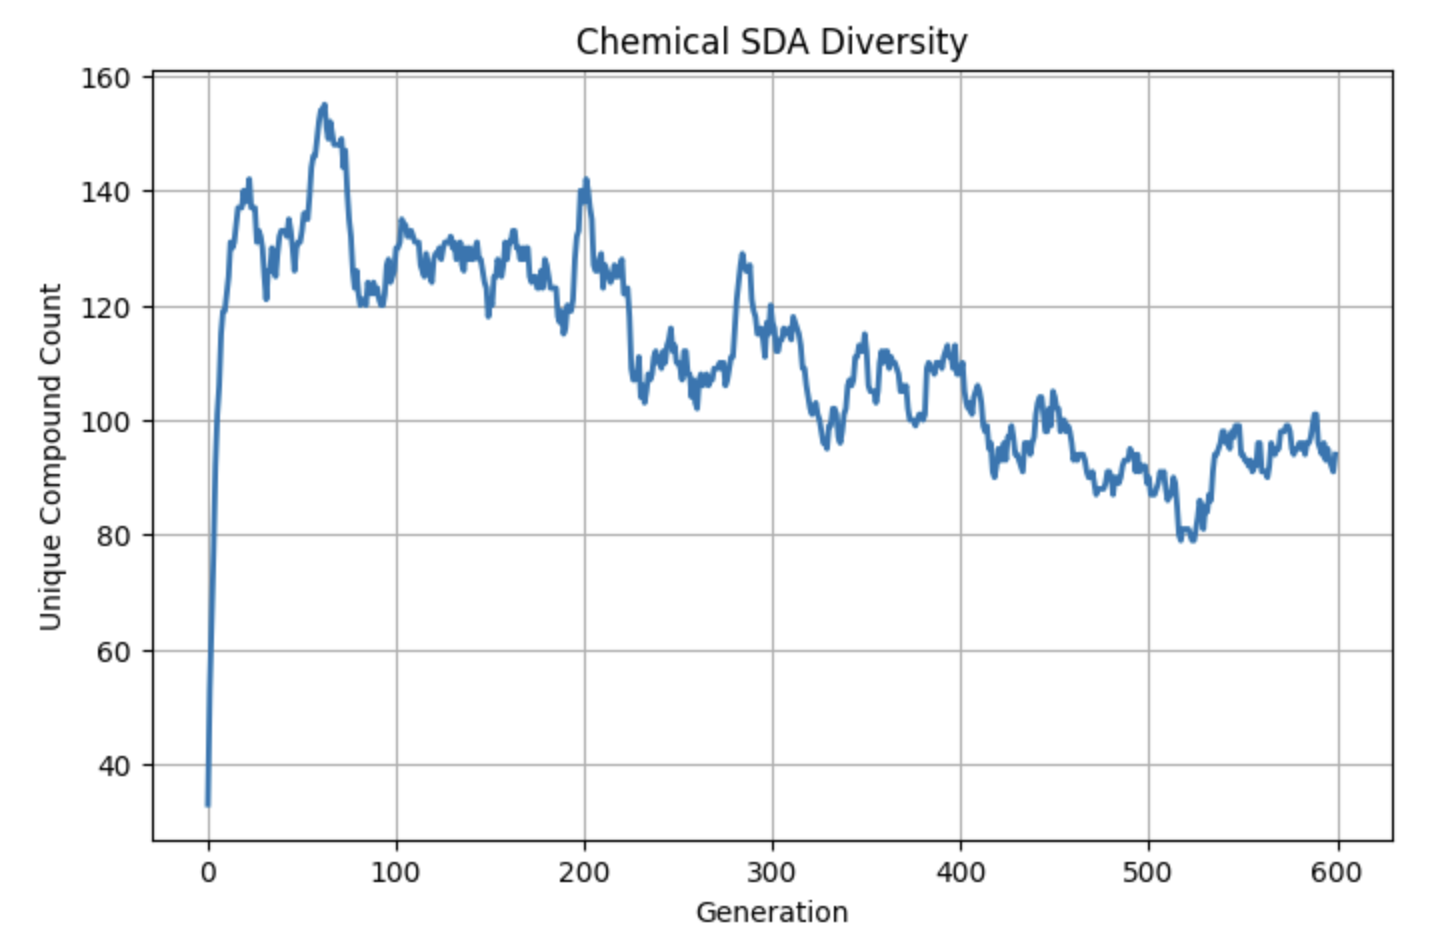
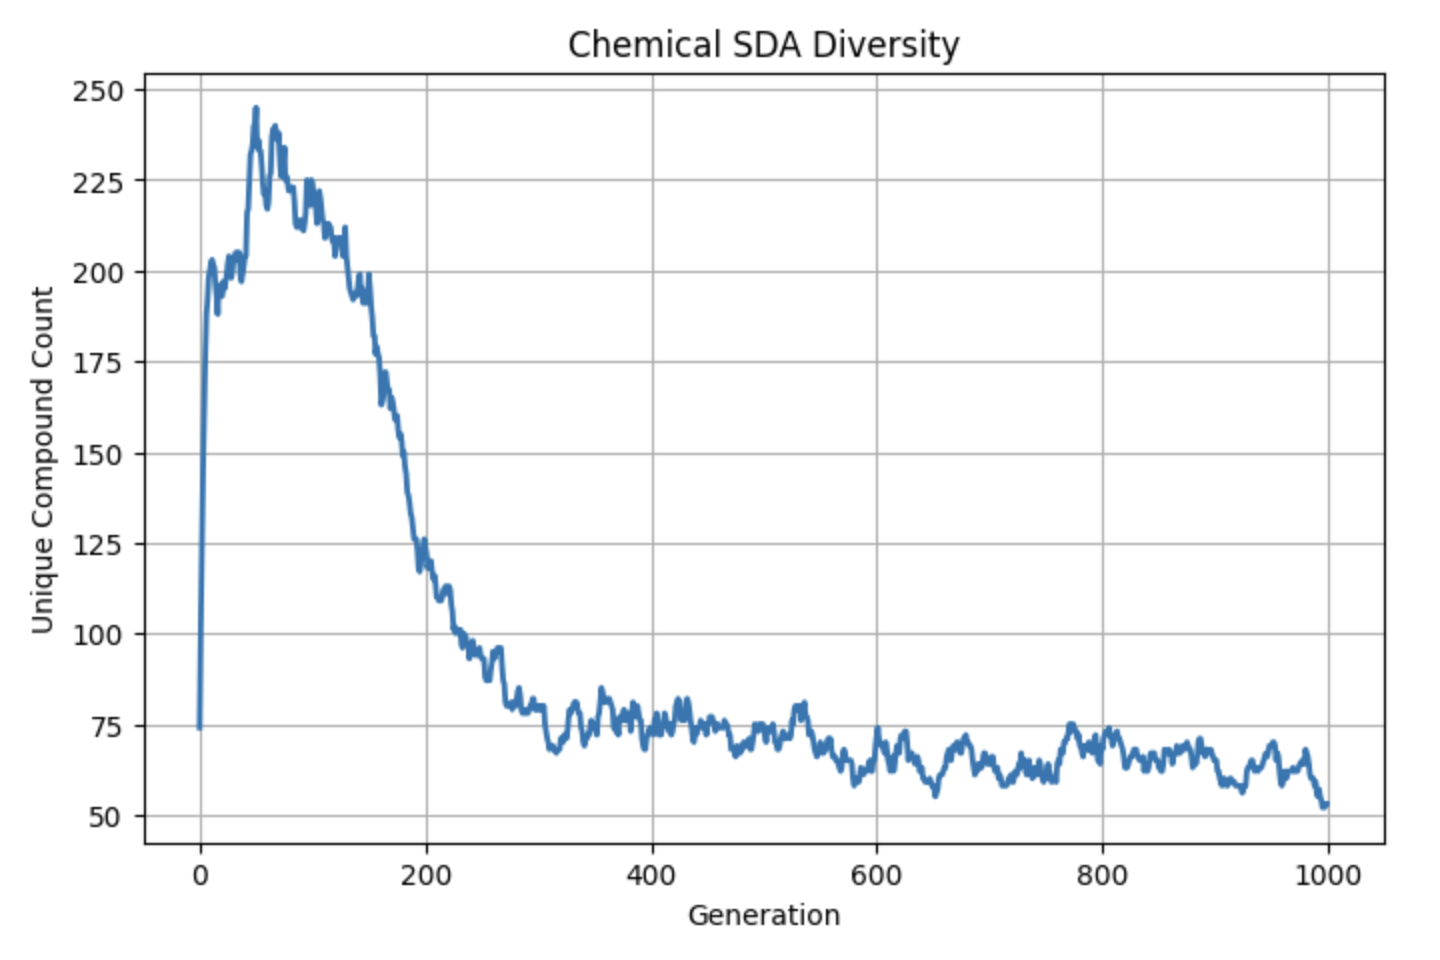
Updates from Overleaf

Changed region(s): [[0.0, 0.0306, 0.9688, 0.9789]]

diff --git a/template.tex b/template.tex
@@ -331,69 +331,87 @@ All other aspects of the algorithm were left unchanged. As in the symbolic case,
 
 \subsection{Results}
 
-We ran simulations for 600 generations with 100 interactions per generation and replenishment rate of three. Several metrics were collected to characterize the evolutionary dynamics of the chemical system.  
+We ran chemical SDA simulations for 1000 generations with 200 interactions per generation and a replenishment rate of five. The results reveal how stability-driven persistence produces skewed population structures, motif-level evolution, and system-wide dynamics that parallel both genetic algorithms (GAs) and ecological systems.  
+
+\begin{figure}[H]
+    \centering
+    \includegraphics[width=0.9\textwidth]{SDA-chem-hist.png}
+    \caption{Histogram of the twelve most frequent compounds at generation 1000, expressed as counts and percentages. One compound accounts for $\sim$54\% of the population, with the next runner-up at $\sim$18\%.}
+    \label{fig:chem-compound-hist}
+\end{figure}
+
+Figure~\ref{fig:chem-compound-hist} shows the distribution of the twelve most abundant compounds at generation 1000. A single acetal-bearing motif (CCCC(O)C(O)C(O)(OC(O)OC)C(N)CCC) dominates over half of the population ($\sim$54\%), while the second most frequent compound---a recursive oligomer in which the polyol core is extended by an additional C(N)CCC branch---accounts for 18\%. The third and fourth most frequent motifs (at 7\% and 6\%, respectively) are close structural relatives: one retains the O–C(=O)–O acetal fragment in a simpler form, while the other incorporates an amide-like NC(O) substitution into the same polyol backbone. Together, these four scaffolds account for over 85\% of the entire pool.
+
+From a GA perspective, this concentration illustrates how roulette-wheel selection emerges naturally from persistence: once a motif survives longer, it contributes disproportionately to the parent pool and thus amplifies its frequency. From a chemical perspective, the winners all share the same polyol–amine backbone, differing only in whether the substituent is acetal-like, recursive, or amide-like. In other words, the system converges on a GA schema (the hydroxylated carbon scaffold with an appended amine) and explores variations within that schema, selecting for those with the greatest stability. The dominance of these few compounds therefore reflects both the GA principle of schema preservation and the chemical principle that stable substituents accumulate over evolutionary time.
+
+\begin{figure}[H]
+    \centering
+    \includegraphics[width=1\textwidth]{SDA-chem-top-evo.png}
+    \caption{Evolution of the two top motifs across 200, 600, and 1000 generations. Early competition between NCN- and acetal-bearing variants gives way to long-term fixation of a single stable scaffold.}
+    \label{fig:chem-top-evo}
+\end{figure}
+
+The trajectories of the two leading motifs are shown in Figure~\ref{fig:chem-top-evo}. At generation 200, the population is split between two scaffolds: an NCN-bearing polyol (17.5\%) and a related acetal-containing variant (14.5\%). Both share the same hydroxylated carbon backbone with an appended amine chain, differing only in the functional group attached to the central scaffold.  
+
+By generation 600, the competition has shifted. A recursive oligomer that elaborates the NCN branch with an additional polyol–amine extension rises to 23.7\% of the pool, while the acetal-bearing variant persists at 19.5\%. This phase illustrates how SDA dynamics preserve a common schema while exploring more complex recombinants.  
+
+By generation 1000, however, the balance tips decisively. The simpler acetal-bearing scaffold dominates nearly half the population (45.1\%), while the more elaborate recursive oligomer declines to 15.0\%. From a GA perspective, this trajectory illustrates schema competition: multiple variants arise from a shared template, but persistence imbalances weight selection toward those with the most favorable stability. From a chemical perspective, the result shows that moderate substituents (acetal-like O–C(=O)–O groups) can outcompete bulkier recursive elaborations, leading to convergence on motifs that maximize both stability and generativity. The outcome thus exemplifies the SDA principle that evolutionary search favors motifs which balance structural richness with long-term persistence.
+
 
 \begin{figure}[H]
     \centering
     \includegraphics[width=0.7\textwidth]{SDA-chem-entropy.png}
-    \caption{Shannon entropy of the chemical SDA population over 600 generations. Entropy rises sharply as diversity expands, then exhibits oscillations reflecting alternating phases of order and disorder as dominant motifs emerge and collapse.}
+    \caption{Shannon entropy of the chemical SDA population over 1000 generations. Entropy rises sharply as diversity expands, then declines steadily as dominant motifs consolidate.}
     \label{fig:chem-entropy}
 \end{figure}
 
-Figure~\ref{fig:chem-entropy} shows the entropy trajectory of the chemical population. Entropy initially rises rapidly as new compounds are discovered, then exhibits a pattern of oscillations rather than monotonic decay. These oscillations are consistent with the boom–bust cycles seen in symbolic SDA runs, in which clusters of stable patterns temporarily dominate before being displaced by alternative structures. The persistence of oscillations indicates that stability-driven selection is sufficient to generate long-lived cycles of order and disorder.  
+Entropy dynamics, shown in Figure~\ref{fig:chem-entropy}, explain this consolidation. Shannon entropy increases rapidly during early exploration as new compounds are discovered, but after peaking near generation 150--200, it declines monotonically. The decline corresponds to the narrowing of the population into a smaller set of persistent motifs, consistent with selection pruning the search space.  
 
 \begin{figure}[H]
     \centering
     \includegraphics[width=0.7\textwidth]{SDA-chem-diversity.png}
-    \caption{Unique compound count over time. Diversity rises steeply in early generations and stabilizes around 100–140 species, with oscillations that closely track entropy fluctuations.}
+    \caption{Unique compound count over time. Diversity peaks early at over 200 unique species, then collapses to $\sim$50 by the end of the run.}
     \label{fig:chem-diversity}
 \end{figure}
 
-The diversity of unique compounds, shown in Figure~\ref{fig:chem-diversity}, follows a similar trajectory. After a rapid increase in early generations, the number of distinct compounds stabilizes at around 100–140, fluctuating in tandem with entropy. This parallelism reinforces the interpretation that entropy oscillations correspond to turnover in chemical diversity, where new motifs periodically displace previously dominant ones.  
+Figure~\ref{fig:chem-diversity} shows that diversity follows the same trajectory. The number of distinct compounds rises steeply in the first 100 generations, reaching over 200 species, but collapses thereafter as stability-driven persistence favors only a subset of motifs. By generation 1000, roughly 50 species remain, with the majority of the population concentrated in the top two scaffolds.  
 
 \begin{figure}[H]
     \centering
     \includegraphics[width=0.7\textwidth]{SDA-chem-novel.png}
-    \caption{Fraction of novel compounds (not in the initial fragment pool) over time. By generation 600, approximately 75\% of the population consists of novel compounds, demonstrating continuous innovation through recombination and mutation.}
+    \caption{Fraction of novel compounds (not in the initial fragment pool) over time. Novelty rapidly overtakes the base pool, stabilizing above 80\% of the population.}
     \label{fig:chem-novel}
 \end{figure}
 
-Figure~\ref{fig:chem-novel} quantifies the share of novel compounds relative to the base fragment pool. The fraction of novel structures rises steadily and plateaus near 75\%, showing that recombination and mutation efficiently explore new regions of chemical space. The persistence of this fraction demonstrates that novelty is not transient but sustained across generations, as stable new motifs accumulate and contribute to ongoing evolutionary dynamics.  
+Novelty relative to the base fragment set is quantified in Figure~\ref{fig:chem-novel}. The fraction of novel compounds rises steeply and surpasses 80\% by generation 200, remaining stable thereafter. This indicates that evolutionary dynamics are driven by novel recombinations rather than simple recycling of the initial pool. Novelty is thus not transient but sustained, consistent with SDA’s prediction of open-ended exploration.  
 
 \begin{figure}[H]
     \centering
     \includegraphics[width=0.7\textwidth]{SDA-chem-rank.png}
-    \caption{Rank–abundance distribution of compounds in the final population (log–log scale). The heavy-tailed form, with a few highly abundant compounds and many rare ones, resembles ecological species-abundance distributions.}
+    \caption{Rank–abundance distribution of compounds in the final population (log–log scale). A heavy-tailed distribution emerges, with a few highly abundant motifs and many rare species.}
     \label{fig:chem-rank}
 \end{figure}
 
-The rank–abundance distribution in Figure~\ref{fig:chem-rank} shows a heavy-tailed profile typical of complex adaptive systems. A few highly abundant compounds dominate, while many rare ones persist at low frequency. This mirrors species-abundance curves in ecology, further underscoring the natural GA-like properties of SDA when applied to chemical space.  
-
-\begin{figure}[H]
-    \centering
-    \includegraphics[width=0.9\textwidth]{SDA-chem-compounds.png}
-    \caption{Representative structures of the twelve most abundant compounds at the end of the simulation. Compounds exhibit chemically plausible motifs such as esters, hydroxyl groups, and amide-like linkages, despite the use of a simple heuristic stability function.}
-    \label{fig:chem-compounds}
-\end{figure}
-
-The most persistent compounds are depicted in Figure~\ref{fig:chem-compounds}. Even though the stability function was a simplified proxy, many of the top-ranking compounds exhibit motifs consistent with chemical plausibility, including esters, hydroxylated carbons, and amide-like linkages. Their emergence highlights that stability-driven persistence alone can generate complex and structured chemistry from a small base set.  
-
-\begin{figure}[H]
-    \centering
-    \includegraphics[width=0.9\textwidth]{SDA-chem-compound-hist.png}
-    \caption{Histogram of the twelve most frequent compounds, expressed both in counts and relative percentages. A few compounds achieve dominance while others remain at intermediate frequencies, producing a heterogeneous but structured population.}
-    \label{fig:chem-compound-hist}
-\end{figure}
-
-The histogram in Figure~\ref{fig:chem-compound-hist} further illustrates the dominance of a small number of compounds. The leading compound comprises nearly 27\% of the population, with subsequent compounds contributing smaller but still significant shares. This uneven distribution aligns with the rank–abundance profile and demonstrates how stability-driven selection naturally produces heterogeneity in chemical ecosystems.  
+Finally, the rank–abundance distribution in Figure~\ref{fig:chem-rank} shows that the final population adopts a heavy-tailed form. A small number of motifs dominate by orders of magnitude, while a long tail of rare compounds persists at low frequency. This mirrors species-abundance distributions in ecology and demonstrates that SDA naturally produces structured, law-like abundance patterns when applied to chemistry.  
 
 \subsection{Interpretation}
 
-Taken together, these results demonstrate that the SDA framework, when instantiated with chemical fragments, behaves as a natural genetic algorithm. At the symbolic level, the system consists of nothing more than recombination, mutation, replenishment, and stability-driven expiration. Yet when applied to chemical fragments, these same operations generate persistent novelty, heavy-tailed abundance distributions, and oscillatory dynamics of entropy and diversity.  
+Taken together, these results show that chemical SDA recapitulates the dynamics of a natural GA. Population skew arises spontaneously from persistence imbalances: compounds that survive longer contribute disproportionately to the parent pool, creating effective roulette-wheel selection without an explicit fitness function. This mechanism is evident in the histogram and motif trajectories (Figures~\ref{fig:chem-compound-hist}, \ref{fig:chem-top-evo}), which show oligopolistic dominance and scaffold-level competition.  
 
-Crucially, fitness is not an externally imposed function, as in conventional GAs, but emerges from the persistence of chemically plausible structures. In the symbolic case this was pre-specified through a lookup table of stability values; in the chemical case it is calculated implicitly by the environment through the stability function. This distinction highlights the dual nature of SDA: it is simultaneously a model of symbolic information dynamics and a plausible mechanistic account of how chemistry could self-organize into increasingly complex structures, ultimately giving rise to a biosphere.  
+System-level traces (Figures~\ref{fig:chem-entropy}--\ref{fig:chem-novel}) explain how this outcome emerges: entropy and diversity expand initially but collapse as selection narrows the space, while novelty remains high as new motifs continually replace base fragments. The final rank–abundance distribution (Figure~\ref{fig:chem-rank}) underscores that these dynamics are not idiosyncratic but follow statistical patterns seen across complex adaptive systems.  
 
-Taken together, these results support the hypothesis that roulette-wheel selection emerges from persistence imbalances alone: when patterns (or molecules) persist in proportion to their stability, uniform parent sampling becomes implicitly fitness-weighted, yielding GA-like search dynamics without an explicit fitness function.
+Even with a simplified stability function, the most abundant compounds exhibit chemically plausible motifs such as polyols, acetals, and amine substituents. Their persistence is not arbitrary but arises from their ability to withstand turnover in the generative environment. These findings support the SDA hypothesis that stability alone, when coupled with recombination and mutation, can drive both the generation of novelty and the convergence on structured, high-complexity attractors—plausibly capturing the dynamics that underlie prebiotic chemical evolution.  
+
+
+\subsection{Equilibrium Models versus Selection-Driven Evolution}
+
+It is useful to contrast these results with equilibrium-based analyses such as those presented by MAK. In order to render the governing equations linear and analytically tractable, equilibrium models typically assume constant reaction rates and well-mixed dynamics. This assumption ensures mathematical stability but also suppresses the very features that drive open-ended evolution. With constant rates, all species are treated as equivalent participants in a Markovian flow, and the long-term behavior is dominated by equilibrium concentrations determined by stoichiometry rather than by persistence differentials. In such a setting, once equilibrium is reached, no further directional change occurs.
+
+By contrast, the SDA framework does not impose constant rates or equilibrium conditions. Instead, each compound’s effective lifetime depends on its stability, so that turnover is inherently non-uniform. This creates persistence imbalances: more stable motifs accumulate, while less stable ones vanish, skewing the population distribution and weighting the parent-selection process. As demonstrated in the simulations above, this skew is precisely what produces evolutionary search dynamics. Entropy and diversity expand initially but then collapse as a few stable motifs dominate, novelty is continually generated through recombination, and population abundance assumes a heavy-tailed form reminiscent of ecological communities. None of these features emerge from an equilibrium analysis with constant rates, because such models erase the role of selection in shaping the system’s trajectory.
+
+In short, equilibrium approaches such as MAK characterize the static end-state of a reaction network, whereas SDA captures its inherently evolutionary nature. What appears in equilibrium theory as a steady-state distribution is, in the SDA view, the transient outcome of continual competition, turnover, and selection. This distinction highlights why stability-driven selection is indispensable for understanding how chemical systems can move beyond equilibrium chemistry toward open-ended evolution.
+
+
 
 \section{Open-Endedness and Computation}
 
